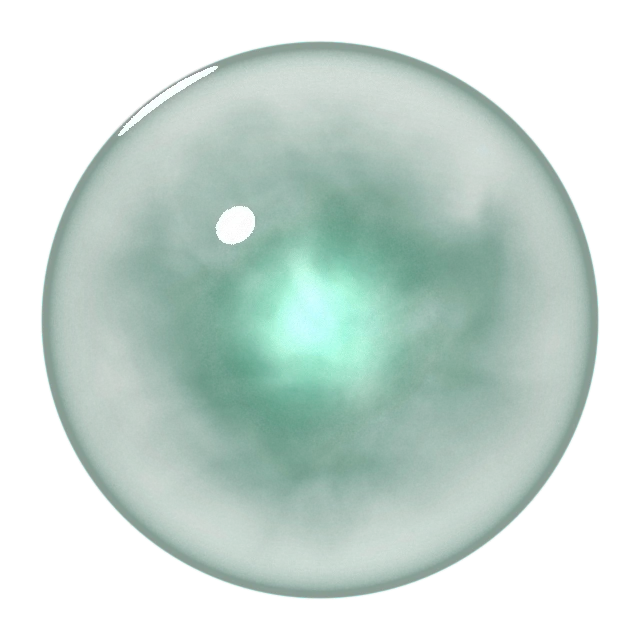
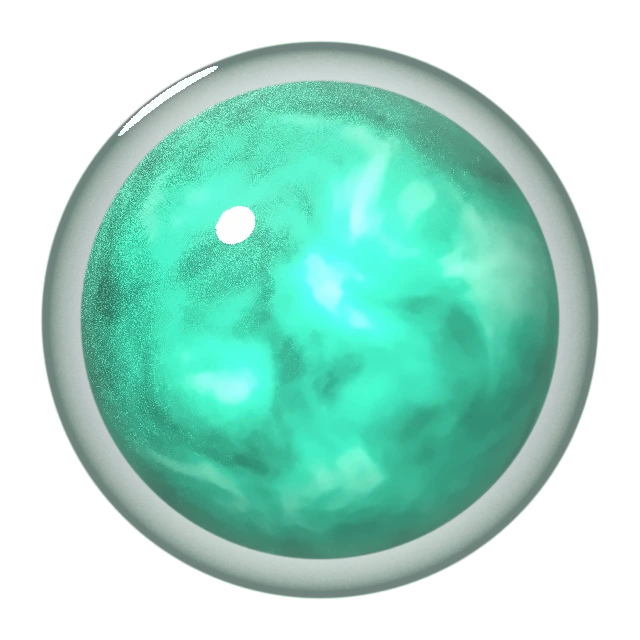
SWINGBY daylight core: a glowing teal world inside the glass
The mist version looked grey and milky on the light screen ("the planet feels
off"). coreday now renders a surface world inside the glass shell: drifting
teal clouds that glow from the centre, shaded by the top-left key, with crisp
alpha and saturated colour on a light background. The glows behind the bodies
are radial gradients instead of flat discs (they read as discs on light).

Claude-Session: https://claude.ai/code/session_012PogiW53KBA8qjJSTi8fxY

diff --git a/tools/blender/in07_orbital.py b/tools/blender/in07_orbital.py
@@ -99,9 +99,9 @@ def mist_material(radius, density, emission):
         if n.type != 'OUTPUT_MATERIAL':
             nt.nodes.remove(n)
     pv = nt.nodes.new('ShaderNodeVolumePrincipled')
-    pv.inputs['Color'].default_value = (0.22, 0.70, 0.52, 1)
-    pv.inputs['Absorption Color'].default_value = (0.02, 0.30, 0.20, 1)
-    pv.inputs['Emission Color'].default_value = (*TEAL_HI, 1)
+    pv.inputs['Color'].default_value = (0.10, 0.62, 0.46, 1)              # scattering: a saturated teal, so the lit side is not grey
+    pv.inputs['Absorption Color'].default_value = (0.12, 0.60, 0.45, 1)   # what passes through keeps the teal tint
+    pv.inputs['Emission Color'].default_value = (*TEAL, 1)
     tc = nt.nodes.new('ShaderNodeTexCoord')
     noise = node(nt, 'ShaderNodeTexNoise', Scale=2.6, Detail=8.0, Roughness=0.62, Distortion=0.9)
     nt.links.new(tc.outputs['Object'], noise.inputs['Vector'])
@@ -111,7 +111,7 @@ def mist_material(radius, density, emission):
     fall.inputs['To Min'].default_value = 1.0; fall.inputs['To Max'].default_value = 0.0
     nt.links.new(ln.outputs['Value'], fall.inputs['Value'])
     ramp = nt.nodes.new('ShaderNodeValToRGB'); cr = ramp.color_ramp
-    cr.elements[0].position = 0.42; cr.elements[0].color = (0.04, 0.04, 0.04, 1)
+    cr.elements[0].position = 0.42; cr.elements[0].color = (0.03, 0.03, 0.03, 1)
     cr.elements[1].position = 0.80; cr.elements[1].color = (1, 1, 1, 1)
     nt.links.new(noise.outputs['Fac'], ramp.inputs['Fac'])
     mul = nt.nodes.new('ShaderNodeMath'); mul.operation = 'MULTIPLY'
@@ -121,6 +121,31 @@ def mist_material(radius, density, emission):
     em = nt.nodes.new('ShaderNodeMath'); em.operation = 'MULTIPLY'; em.inputs[1].default_value = emission
     nt.links.new(mul.outputs['Value'], em.inputs[0]); nt.links.new(em.outputs['Value'], pv.inputs['Emission Strength'])
     nt.links.new(pv.outputs[0], nt.nodes['Material Output'].inputs['Volume'])
+    return m
+
+
+def glowworld_material():
+    """the sound inside, for light screens: a teal world with drifting clouds that glows from its centre (a surface: crisp alpha,
+    saturated on a light background, shaded by the key like the other bodies)"""
+    m, nt, p = principled('glowworld')
+    tc = nt.nodes.new('ShaderNodeTexCoord')
+    noise = node(nt, 'ShaderNodeTexNoise', Scale=2.2, Detail=5.0, Roughness=0.55, Distortion=0.6)
+    nt.links.new(tc.outputs['Object'], noise.inputs['Vector'])
+    ramp = nt.nodes.new('ShaderNodeValToRGB'); cr = ramp.color_ramp
+    cr.elements[0].position = 0.32; cr.elements[0].color = (0.010, 0.16, 0.11, 1)
+    cr.elements[1].position = 0.80; cr.elements[1].color = (0.50, 0.93, 0.78, 1)
+    e = cr.elements.new(0.55); e.color = (0.03, 0.50, 0.34, 1)
+    nt.links.new(noise.outputs['Fac'], ramp.inputs['Fac'])
+    nt.links.new(ramp.outputs['Color'], p.inputs['Base Color']); nt.links.new(ramp.outputs['Color'], p.inputs['Emission Color'])
+    lw = node(nt, 'ShaderNodeLayerWeight', Blend=0.5)
+    inv = nt.nodes.new('ShaderNodeMath'); inv.operation = 'SUBTRACT'; inv.inputs[0].default_value = 1.0
+    nt.links.new(lw.outputs['Facing'], inv.inputs[1])
+    pw = nt.nodes.new('ShaderNodeMath'); pw.operation = 'POWER'; pw.inputs[1].default_value = 3.0
+    nt.links.new(inv.outputs['Value'], pw.inputs[0])
+    em = nt.nodes.new('ShaderNodeMath'); em.operation = 'MULTIPLY_ADD'; em.inputs[1].default_value = 2.4; em.inputs[2].default_value = 0.25
+    nt.links.new(pw.outputs['Value'], em.inputs[0]); nt.links.new(em.outputs['Value'], p.inputs['Emission Strength'])
+    p.inputs['Roughness'].default_value = 0.4
+    p.inputs['Coat Weight'].default_value = 0.4; p.inputs['Coat Roughness'].default_value = 0.1
     return m
 
 
@@ -385,10 +410,9 @@ if mode == 'coreday':
     scene.cycles.film_transparent_glass = True
     scene.cycles.volume_step_rate = 0.5
     # a bright sky for the reflections (the screen is light); the camera still sees nothing (transparent film)
-    wramp.color_ramp.elements[0].color = (0.32, 0.38, 0.36, 1); wramp.color_ramp.elements[1].color = (0.92, 0.97, 0.95, 1)
+    wramp.color_ramp.elements[0].color = (0.20, 0.25, 0.24, 1); wramp.color_ramp.elements[1].color = (0.70, 0.76, 0.74, 1)
     shell(1.0, (0, 0, 0), glass_material())
-    sphere(0.95, (0, 0, 0), mist_material(0.95, 9.0, 1.6), 96)
-    sphere(0.45, (0, 0, 0), glow_volume(8.0, 0.45, 2.5), 64)
+    sphere(0.86, (0, 0, 0), glowworld_material(), 128)
     ortho_camera(2.3)
     scene.render.resolution_x = scene.render.resolution_y = 640
     studio_lights()

diff --git a/README.md b/README.md
@@ -1038,7 +1038,7 @@ cmake/             MinGW 用ツールチェーン
 **いまできているもの**：1 ボイスのエンジン（`products/in07/`、テスト `tests/test_in07.cpp` 16 件）と、確認用のモノフォニック枠（`in07::Processor`、後着優先）。プラグイン層はまだない（CLAP の音符入力が要る）ので `SW_PRODUCTS` ではなく `SW_ENGINES` に入れ、単体テストだけに組み込んである。
 
 **画面は A 案「Orbital」（依頼者決定、2026-10-08）**：音を惑星系として見せる。中心のガラス球＝音、4 本の軌道＝レイヤー、天体の動き＝各数値（対応表はプロジェクト資料 `claude/IN07_synth_plan.md`）。キャンバスの「Future A — Orbital motion (live)」が動く試作。細字・パネル質感なしなどデザインシステムから外れる点は、IN07 だけの例外にするか未決。
-Blender 素材は `tools/blender/in07_orbital.py`（`core` 640×640＝中心の球、`moon` 192×192＝衛星、`hero` 1920×1080＝全景）で描き、`post.py` でノイズ除去して `docs/design/design-system/project/assets/renders/in07/` に置いた。照明は他の部品と同じ左上キー＋右下フィル＋リムだが、ガラスに映る光を左上に揃えるため、リムは**左上の後ろ**、フィルは拡散だけ（ガラスに映さない）にした（右上にリムの映り込みが出て「光は左上から一方向」に反したため）。中心の球は発光の霧なので透明度を持たない：黒背景で描き、画面では `mix-blend-mode: screen` で重ねる…としていたが、拡大縮小した部品の中では合成が切り離され（transform が分離グループを作る）、ライト画面で黒い四角が出た（依頼者の指摘、2026-10-08）。そこで screen 合成をやめ、暗い画面は明るさを透明度にした `core-alpha.webp`、ライト画面は霧が吸収・散乱して本物の透明度を持つ Blender 描画 `coreday.webp`（`coreday` モード）を普通に重ねる。画面は天体を軌道に沿って動かすが回さない（光の向きを保つ）。レイヤーの天体は種類ごとに描き分けた（L1 ウェーブテーブル＝環のある縞の惑星、L2 VA＝真珠、L3 サンプル＝クレーターの月、L4 FM＝多面体の宝石、LFO の月、ユニゾンの小衛星）。自転は Blender で天体を固定の光の下で回した 1 回転 96 コマのスプライトシート（`body` モード＋`tools/blender/pack_sheet.py`、12 列×8 行）で、画面はコマを送るだけ。**画面の動きは毎秒 60 コマ（表示のリフレッシュごと、依頼者の希望 2026-10-08）**：最初の案の「毎秒 30 コマまで」から変更。隠れている間は止める。96 コマにしたのは、60 コマで見て表面の模様が 1 コマあたり 1 px 前後しか動かないようにするため（24 コマでは L1 で約 4 px ずつ跳んでいた）。位置・コマ送り・中心の脈は transform で動かし（GPU で合成）、火花は 0.6 秒の寿命で外へ流れる粒子にした（以前は毎秒 12 回の置き直し）。画面の計算（renderVals）は Node で 1 コマ平均 0.07 ms（このコンテナでの実測。ブラウザの描画時間は含まない）。**動きの設定 MOTION（依頼者の希望、2026-10-08。重いパソコン向け）**：60（表示ごと）／30（毎秒 30 コマ）／OFF（止まった絵。描画の繰り返し自体を止め、値を動かしたときだけ描き直す）。OS が「視差効果を減らす」（prefers-reduced-motion）なら OFF で始める。プラグインでは利用者の画面の設定（全インスタンス共通）として保存し、パラメータにはしない（オートメーション・プリセットの対象外）。軌道・尾・光の輪は値に追従するので画面側で描く。
+Blender 素材は `tools/blender/in07_orbital.py`（`core` 640×640＝中心の球、`moon` 192×192＝衛星、`hero` 1920×1080＝全景）で描き、`post.py` でノイズ除去して `docs/design/design-system/project/assets/renders/in07/` に置いた。照明は他の部品と同じ左上キー＋右下フィル＋リムだが、ガラスに映る光を左上に揃えるため、リムは**左上の後ろ**、フィルは拡散だけ（ガラスに映さない）にした（右上にリムの映り込みが出て「光は左上から一方向」に反したため）。中心の球は発光の霧なので透明度を持たない：黒背景で描き、画面では `mix-blend-mode: screen` で重ねる…としていたが、拡大縮小した部品の中では合成が切り離され（transform が分離グループを作る）、ライト画面で黒い四角が出た（依頼者の指摘、2026-10-08）。そこで screen 合成をやめ、暗い画面は明るさを透明度にした `core-alpha.webp`、ライト画面は Blender の `coreday` モードで描いた `coreday.webp`（ガラスの中に、中心から光るティールの星。霧で描いた版は明るい地で灰色に濁って見えたため、面の材質に替えた）を普通に重ねる。各天体の後ろの光も、平らな円から放射状のぼかしに替えた（明るい地で円盤に見えたため）。画面は天体を軌道に沿って動かすが回さない（光の向きを保つ）。レイヤーの天体は種類ごとに描き分けた（L1 ウェーブテーブル＝環のある縞の惑星、L2 VA＝真珠、L3 サンプル＝クレーターの月、L4 FM＝多面体の宝石、LFO の月、ユニゾンの小衛星）。自転は Blender で天体を固定の光の下で回した 1 回転 96 コマのスプライトシート（`body` モード＋`tools/blender/pack_sheet.py`、12 列×8 行）で、画面はコマを送るだけ。**画面の動きは毎秒 60 コマ（表示のリフレッシュごと、依頼者の希望 2026-10-08）**：最初の案の「毎秒 30 コマまで」から変更。隠れている間は止める。96 コマにしたのは、60 コマで見て表面の模様が 1 コマあたり 1 px 前後しか動かないようにするため（24 コマでは L1 で約 4 px ずつ跳んでいた）。位置・コマ送り・中心の脈は transform で動かし（GPU で合成）、火花は 0.6 秒の寿命で外へ流れる粒子にした（以前は毎秒 12 回の置き直し）。画面の計算（renderVals）は Node で 1 コマ平均 0.07 ms（このコンテナでの実測。ブラウザの描画時間は含まない）。**動きの設定 MOTION（依頼者の希望、2026-10-08。重いパソコン向け）**：60（表示ごと）／30（毎秒 30 コマ）／OFF（止まった絵。描画の繰り返し自体を止め、値を動かしたときだけ描き直す）。OS が「視差効果を減らす」（prefers-reduced-motion）なら OFF で始める。プラグインでは利用者の画面の設定（全インスタンス共通）として保存し、パラメータにはしない（オートメーション・プリセットの対象外）。軌道・尾・光の輪は値に追従するので画面側で描く。
 
 | ID | 名前 | 範囲 | 既定 | カーブ |
 | --- | --- | --- | --- | --- |

diff --git a/docs/design/design-system/project/assets/renders/README.md b/docs/design/design-system/project/assets/renders/README.md
@@ -41,4 +41,4 @@ SW AUDIO の画面・販売素材で使っている Blender 描画（Blender 4.0
 | `parts/reel.webp` | テープのリール（288×288、透明）。リム・3 本のスポーク・ハブ。`tools/blender/reel.py`。画面で回す（光が回らないよう、柔らかい上からの光だけ）。DL02・SA01 |
 | `parts/rotor-horn.webp`・`rotor-drum.webp` | 回転スピーカー MD05 のホーン（2 つのベル）とドラム（スリット付きの胴）を上から見た図（240×240、透明）。`tools/blender/rotor.py`。画面で回す |
 | `parts/vu-glass.webp` | VU メーターのガラスの反射（840×486、反射だけの白い透明画像）。`tools/blender/vu_glass.py`（少し膨らんだガラスに柔らかい光源を映す）＋ `post_glass.py`。デザイン側の平らな白い反射の代わりに、針の上に重ねる |
-| `in07/core.webp`・`moon.webp`・`hero.webp`・`hero-swingby.webp` | SWINGBY（SW IN07）A 案「Orbital」。中心の球（ガラスの殻＋光る星雲、640×640、**黒背景**：発光の霧は透明度を持たないので画面では `mix-blend-mode: screen` で重ねる）、衛星（真珠色の球、192×192、透明）、全景（1920×1080、ブルーム付き。コンセプト用で販売素材ではない）、全景にロゴタイプ（`product-logos/swingby-dark.svg`、幅 500px）を重ねたキービジュアル。`in07/core-alpha.webp` は中心の球を明るさから透明度に直したもの（暗い画面用。screen 合成が要らない）、`in07/coreday.webp` はライト画面用の中心の球（Blender の `coreday` モード：霧が光を吸収・散乱するので本物の透明度を持ち、左上の光で陰影が付く。ガラスは明るい空を映す。640×640）。`in07/bodies/` はレイヤーごとの天体（自転のスプライトシート、1 回転 96 コマを 12 列×8 行に左上から行ごと・透明）：ring＝L1 ウェーブテーブル（縞の惑星＋環、1 コマ 160×160）、pearl＝L2 VA（真珠）、crater＝L3 サンプル（クレーター）、crystal＝L4 FM（多面体の宝石）、各 96×96。lfo（LFO の月、96×96）・bead（ユニゾンの小衛星、64×64）は 1 コマ。天体を光の下で回して描いたもの（光は左上のまま表面だけが動く）なので、画面はコマを送ってよい（画像そのものは回さない）。`tools/blender/in07_orbital.py body <種類> <出力>` → `tools/blender/pack_sheet.py``tools/blender/in07_orbital.py`。リムは左上の後ろ、フィルはガラスに映さない（映り込みを左上に揃えるため）。衛星は画面で軌道に沿って動かすが回さない |
+| `in07/core.webp`・`moon.webp`・`hero.webp`・`hero-swingby.webp` | SWINGBY（SW IN07）A 案「Orbital」。中心の球（ガラスの殻＋光る星雲、640×640、**黒背景**：発光の霧は透明度を持たないので画面では `mix-blend-mode: screen` で重ねる）、衛星（真珠色の球、192×192、透明）、全景（1920×1080、ブルーム付き。コンセプト用で販売素材ではない）、全景にロゴタイプ（`product-logos/swingby-dark.svg`、幅 500px）を重ねたキービジュアル。`in07/core-alpha.webp` は中心の球を明るさから透明度に直したもの（暗い画面用。screen 合成が要らない）、`in07/coreday.webp` はライト画面用の中心の球（Blender の `coreday` モード、640×640、透明）：ガラスの中に、雲が流れ中心から光るティールの星（面の材質なので輪郭がはっきりし、明るい地でも色が濁らない。左上の光で陰影）。最初は霧（体積）で描いたが、明るい地では灰色に濁って見えた（依頼者の指摘「惑星に違和感」）ので描き直した。`in07/bodies/` はレイヤーごとの天体（自転のスプライトシート、1 回転 96 コマを 12 列×8 行に左上から行ごと・透明）：ring＝L1 ウェーブテーブル（縞の惑星＋環、1 コマ 160×160）、pearl＝L2 VA（真珠）、crater＝L3 サンプル（クレーター）、crystal＝L4 FM（多面体の宝石）、各 96×96。lfo（LFO の月、96×96）・bead（ユニゾンの小衛星、64×64）は 1 コマ。天体を光の下で回して描いたもの（光は左上のまま表面だけが動く）なので、画面はコマを送ってよい（画像そのものは回さない）。`tools/blender/in07_orbital.py body <種類> <出力>` → `tools/blender/pack_sheet.py``tools/blender/in07_orbital.py`。リムは左上の後ろ、フィルはガラスに映さない（映り込みを左上に揃えるため）。衛星は画面で軌道に沿って動かすが回さない |
